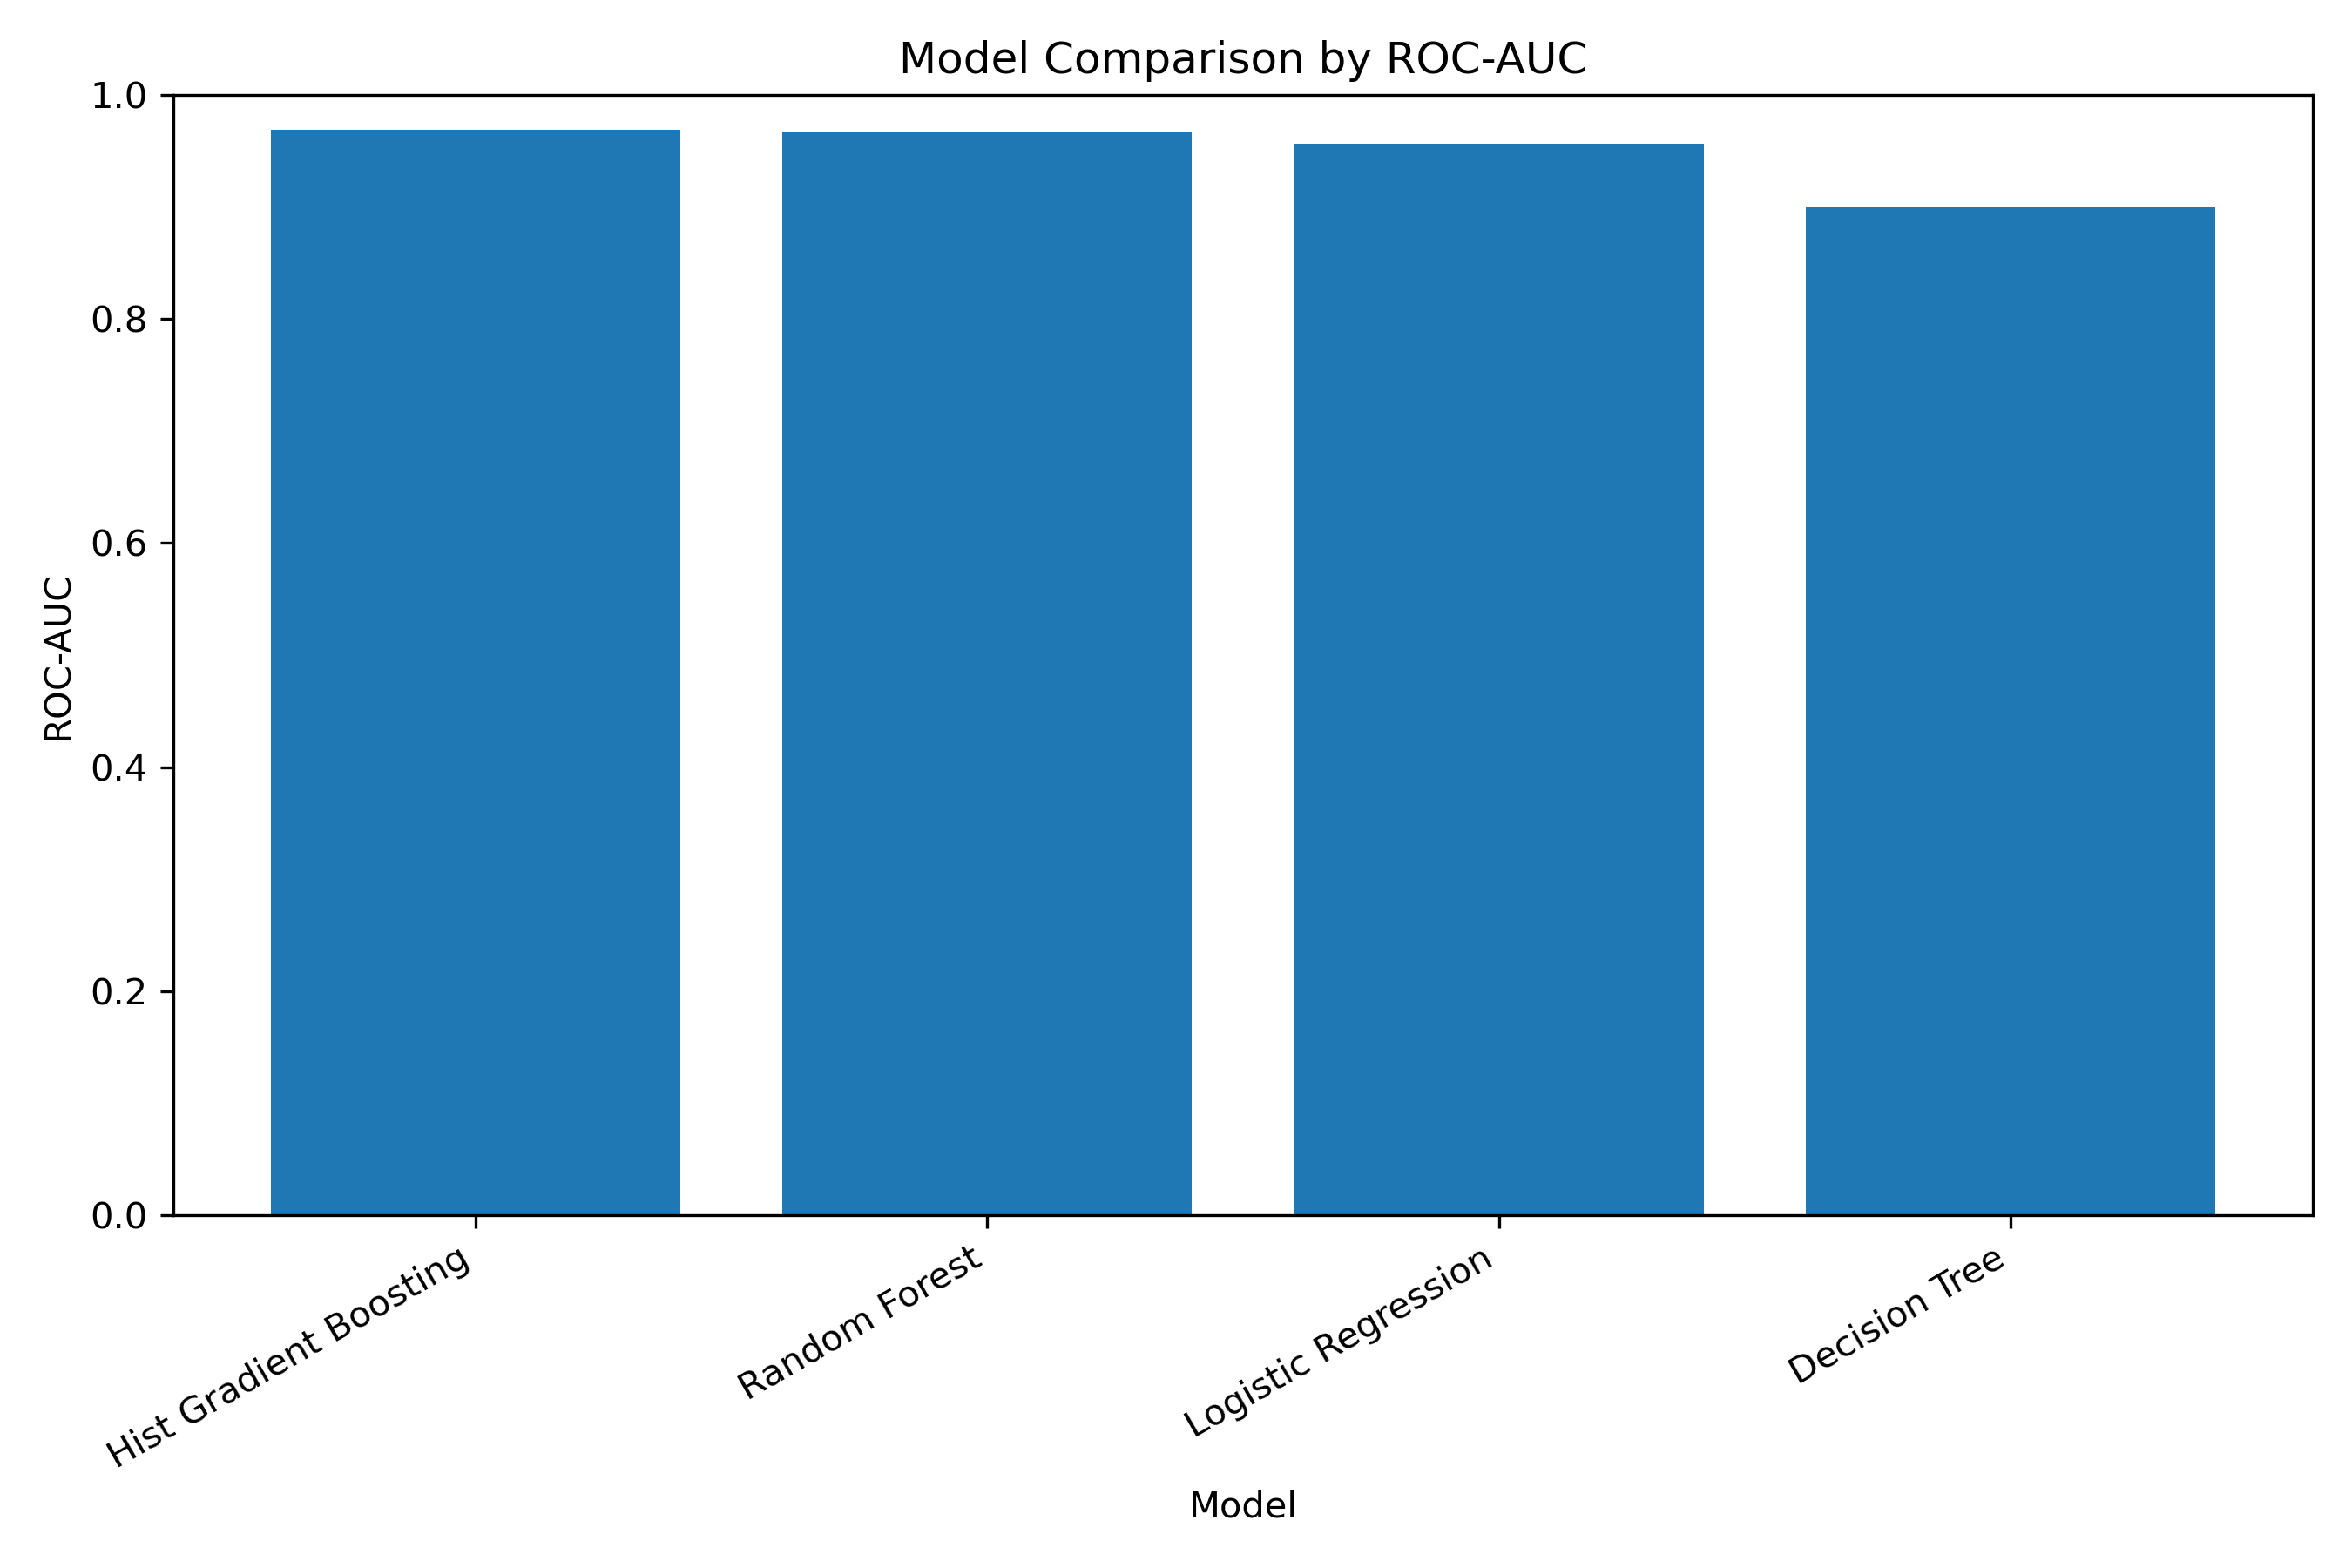
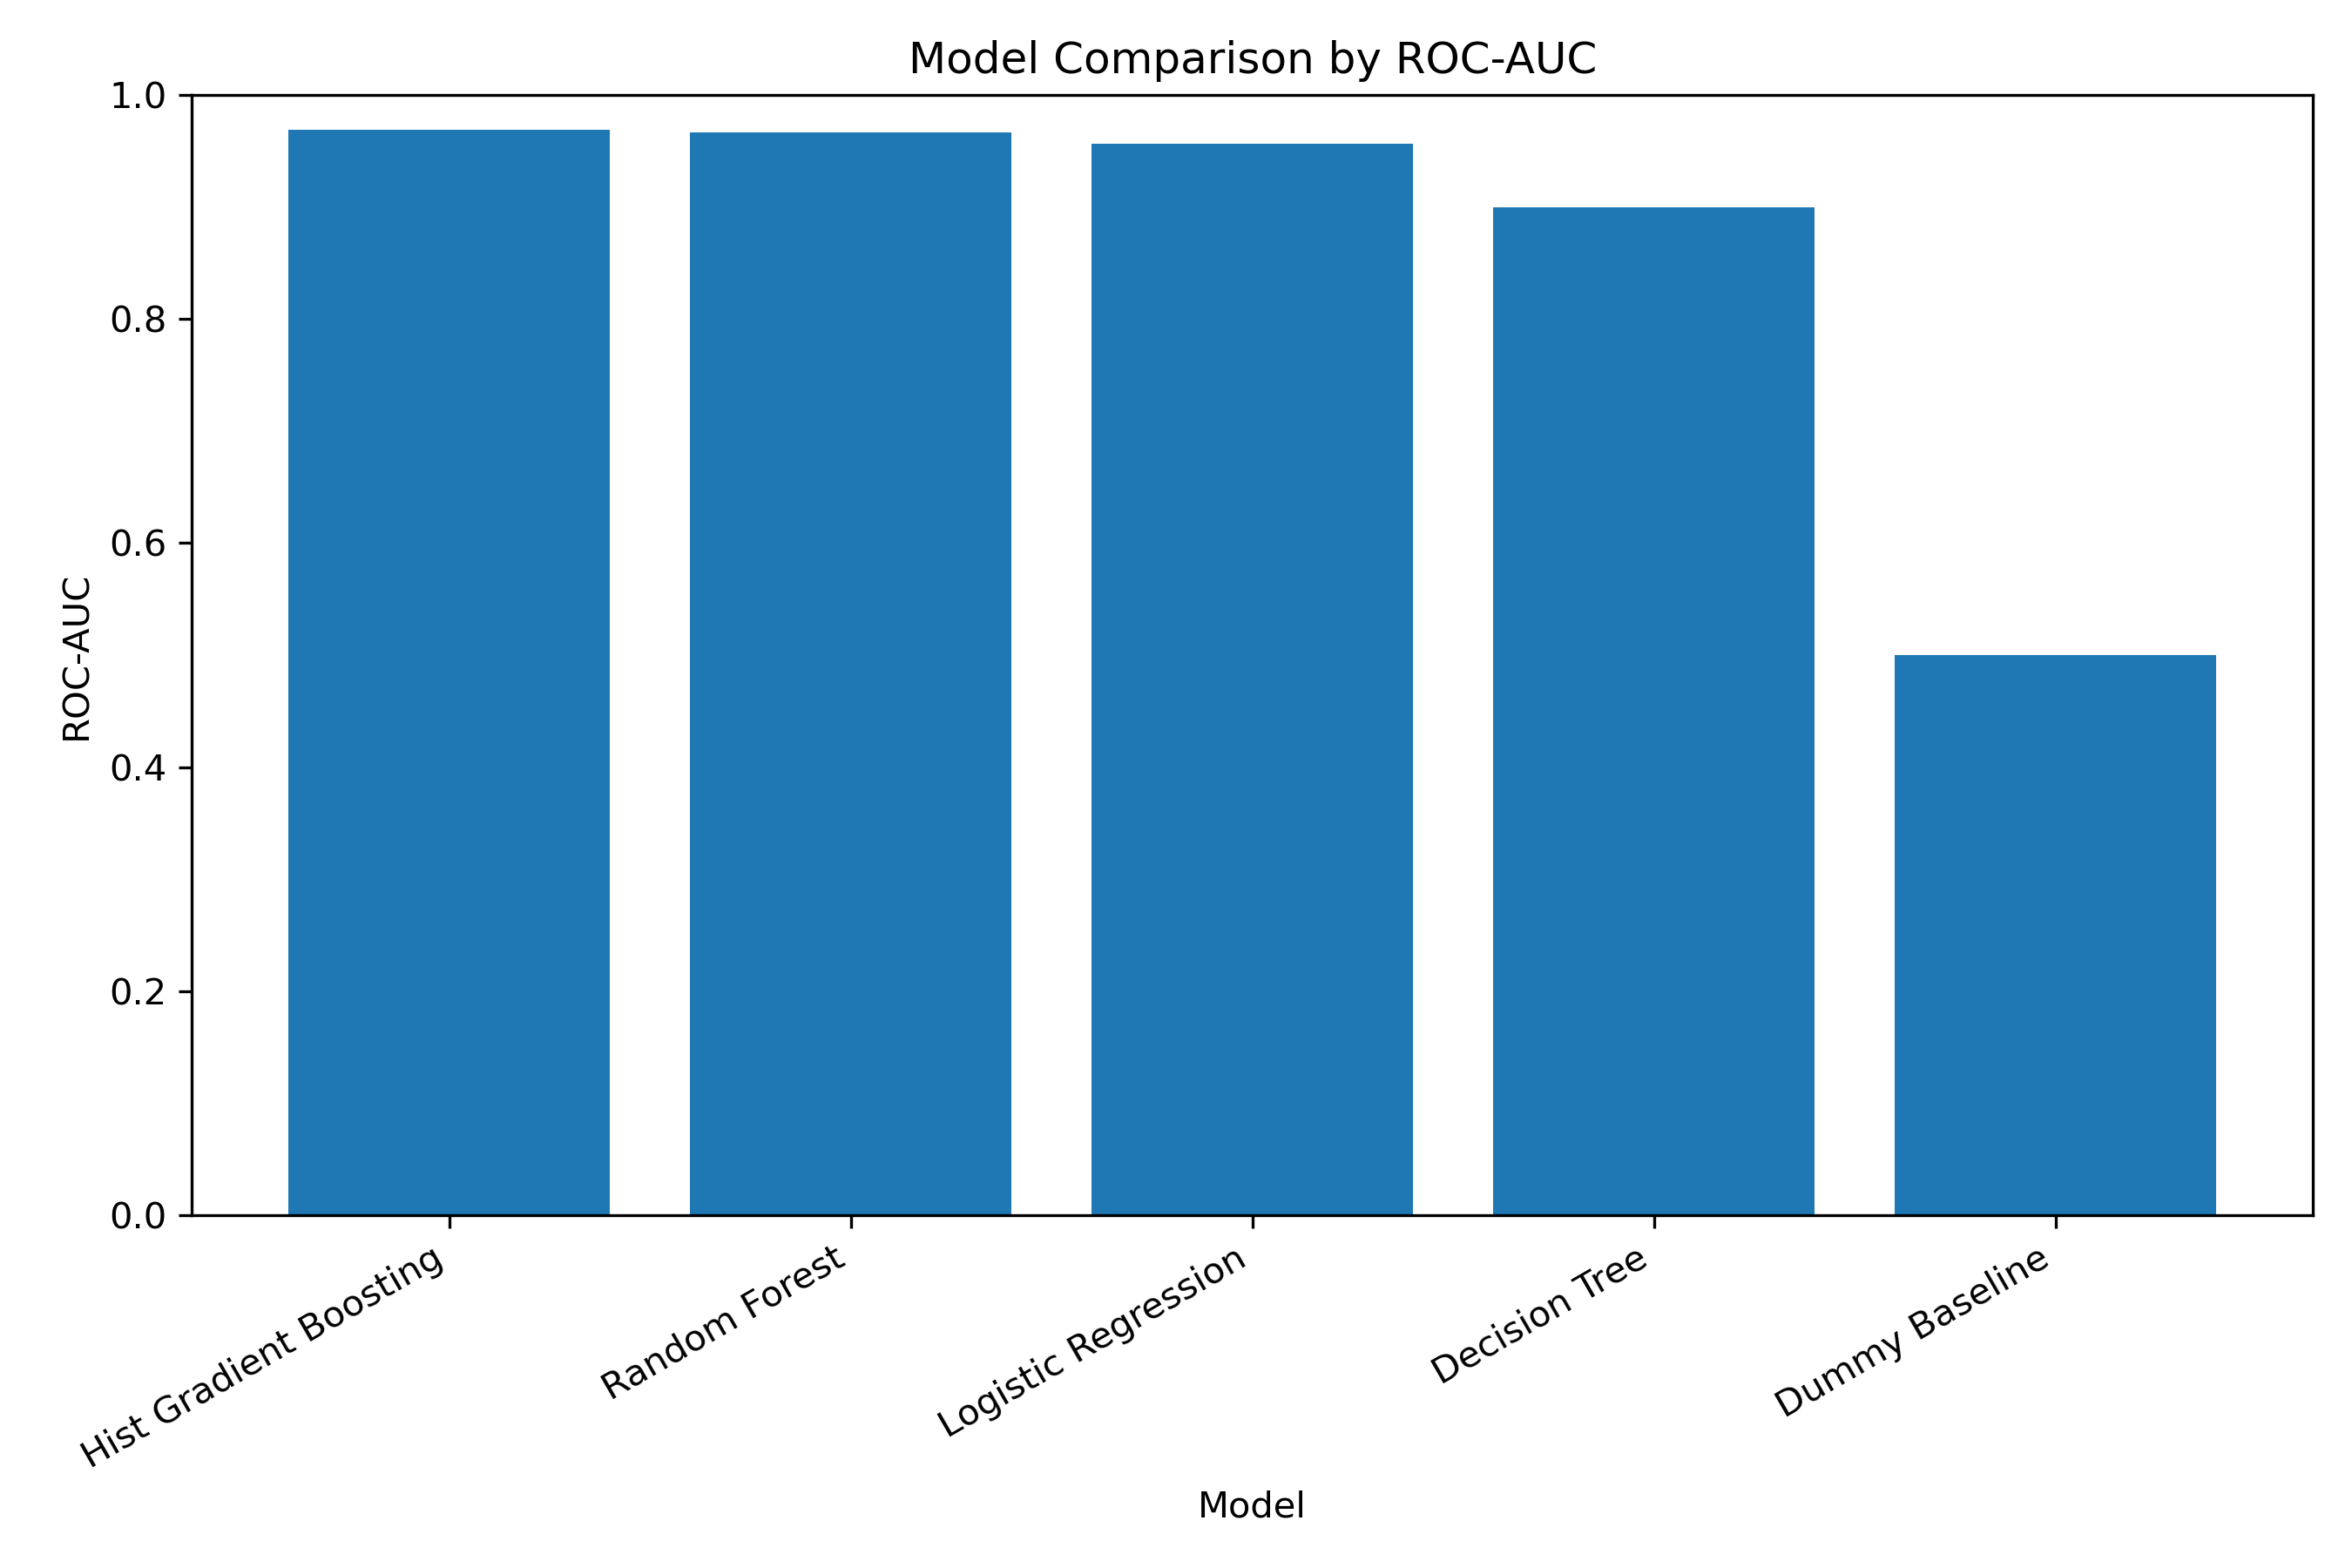
Add dummy baseline model

diff --git a/src/train_models.py b/src/train_models.py
@@ -11,6 +11,7 @@ import matplotlib.pyplot as plt
 import joblib
 
 from sklearn.pipeline import Pipeline
+from sklearn.dummy import DummyClassifier
 from sklearn.model_selection import train_test_split
 from sklearn.metrics import (
     accuracy_score,
@@ -79,8 +80,12 @@ def stratified_sample(df, sample_size):
 
 
 def get_models():
-    """Define candidate models."""
+    """Define baseline and candidate machine-learning models."""
     return {
+        "dummy_most_frequent": DummyClassifier(
+            strategy="most_frequent",
+            random_state=RANDOM_STATE,
+        ),
         "logistic_regression": LogisticRegression(
             max_iter=1000,
             class_weight="balanced",

diff --git a/src/results_summary.py b/src/results_summary.py
@@ -21,6 +21,7 @@ from config import RESULTS_TABLES_DIR, RESULTS_FIGURES_DIR
 
 MODEL_NAME_MAP = {
     "logistic_regression": "Logistic Regression",
+    "dummy_most_frequent": "Dummy Baseline",
     "decision_tree": "Decision Tree",
     "random_forest": "Random Forest",
     "hist_gradient_boosting": "Hist Gradient Boosting",